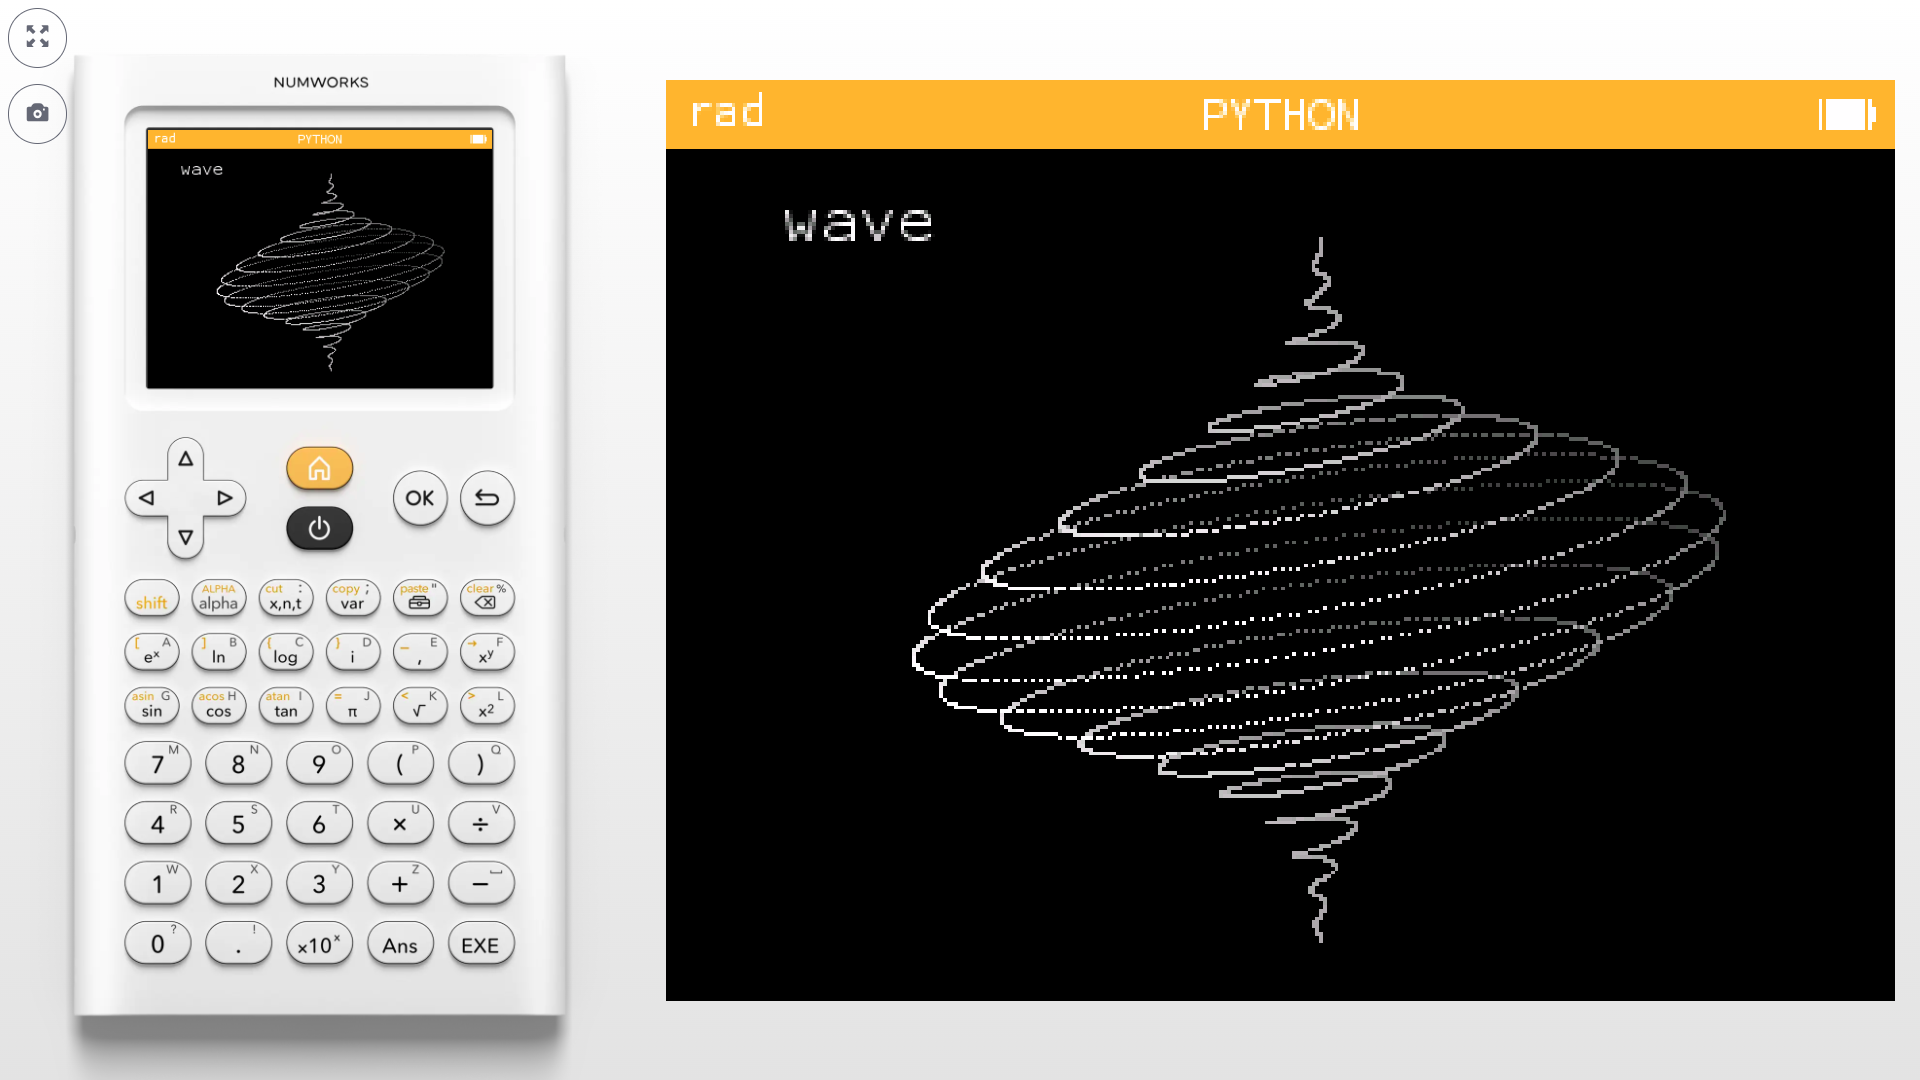
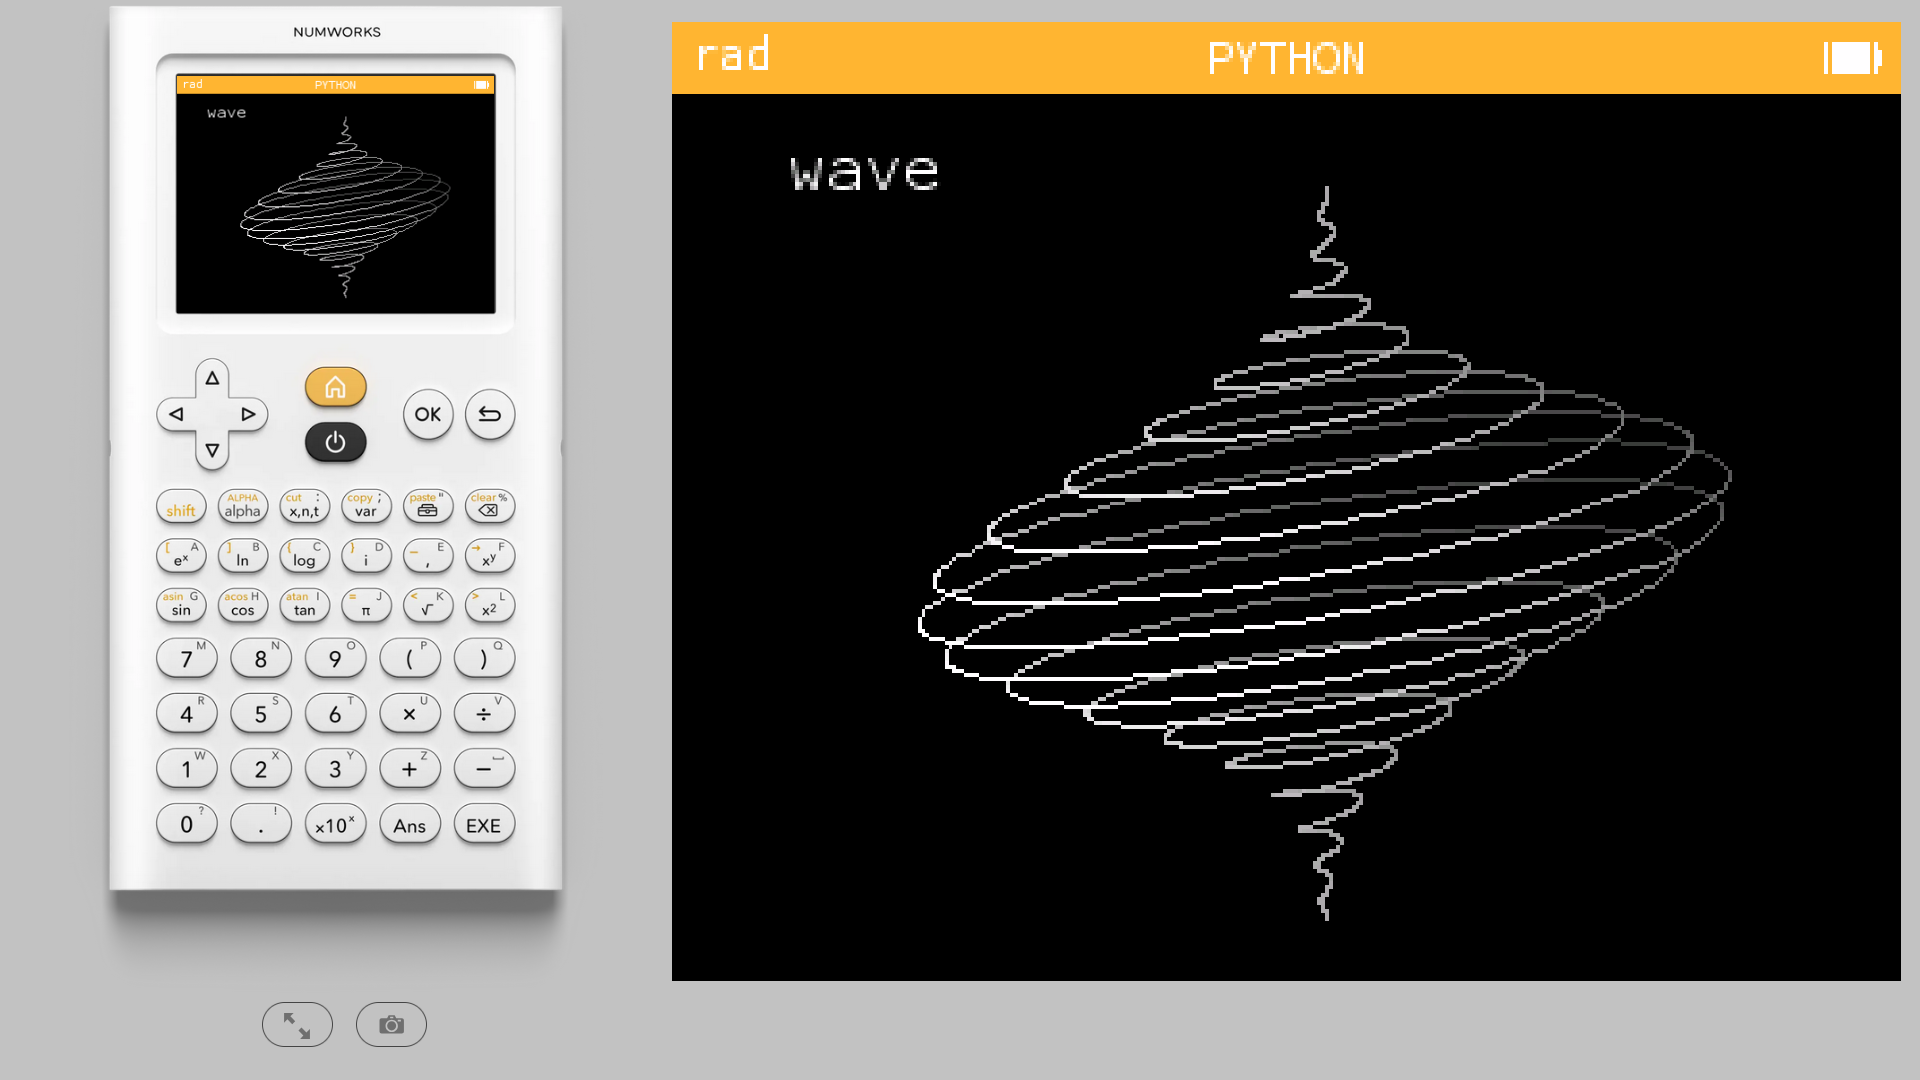
Add files via upload

diff --git a/line3d.py b/line3d.py
@@ -14,6 +14,19 @@ def wave(t):
   x=sin(6*t)*exp(-t**2/20); y=cos(6*t)*exp(-t**2/20); z=t
   return x,y,z
 
+# function draws a line using kandinsky library
+# start point:(x1,y1), end point:(x2,y2), optional color
+def connect(x1,y1,x2,y2,co="black"):
+  xspan=x2-x1;yspan=y2-y1
+  steps=max(abs(xspan),abs(yspan))
+  if steps==0:
+    kandinsky.set_pixel(x1,y1,co)
+    return
+  dx=xspan/steps;dy=yspan/steps
+  x=x1;y=y1
+  for k in range(steps):
+    kandinsky.set_pixel(int(x+.5),int(y+.5),co)
+    x+=dx;y+=dy
 
 # simple projection 3d to 2d
 def proj(x,y,z,a,b):
@@ -34,7 +47,7 @@ def line(fun,trange,xrange,yrange,zrange,txt=""):
   kandinsky.fill_rect(0,0,320,240,"black")
   hoek=pi/12
   a=cos(hoek);b=sin(hoek)
-  Nt=5000
+  Nt=3000
   for k in range(Nt):
     t=trange[0]+(k/(Nt-1)*(trange[1]-trange[0]))
     x,y,z=fun(t)
@@ -48,7 +61,10 @@ def line(fun,trange,xrange,yrange,zrange,txt=""):
     yscr=int(230-230*yproj)
     c=int(y*220+60)
     c=max(0,min(255,c))
-    kandinsky.set_pixel(xscr,yscr,kandinsky.color(c,c,c))
+    if k==0:
+        xscr_old,yscr_old=xscr,yscr
+    connect(xscr_old,yscr_old,xscr,yscr,kandinsky.color(c,c,c))
+    xscr_old,yscr_old=xscr,yscr
   kandinsky.draw_string(txt,30,10,"white","black")
     
 # calling the plotting function
@@ -57,7 +73,10 @@ def line(fun,trange,xrange,yrange,zrange,txt=""):
 #line(sphere,(-10,10),(-10,10),(-10,10),(-10,10),"sphere")
 line(wave,(-10,10),(-1,1),(-1,1),(-10,10),"wave")
 
-
-
+    
+    
+     
+# only for running under Cpython:
+kandinsky.mainloop()
 
 
